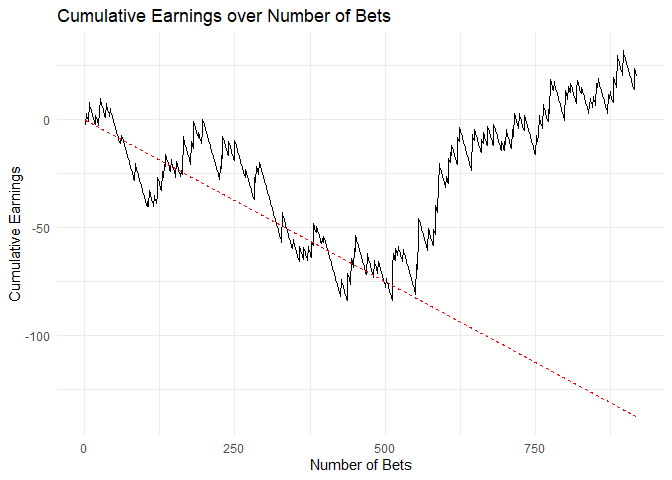
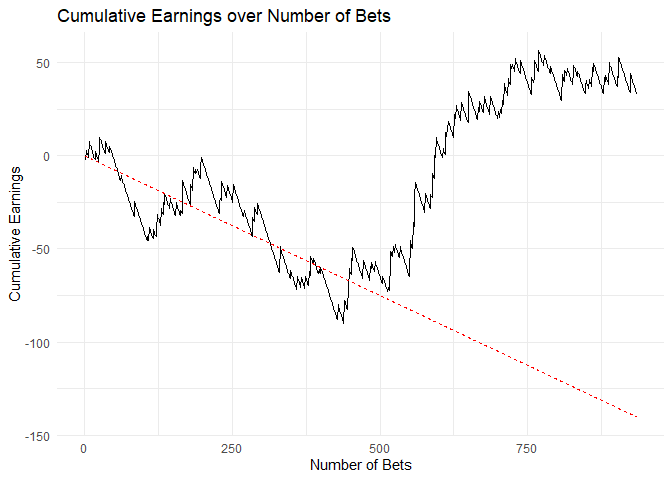
Using variables  in  text and data update.

diff --git a/notebooks/analysis_benter_methods.md b/notebooks/analysis_benter_methods.md
@@ -14,7 +14,7 @@ effectiveness of Benter’s approach in the context of German horse
 racing.
 
 ``` r
-library (data.table)
+library(data.table)
 library(survival)
 library(tidyverse)
 library(zoo)
@@ -24,12 +24,12 @@ library(zoo)
 
 Germany features two primary types of horse racing: Harness racing and
 flat racing. Steeplechasing and hurdling have largely faded into
-history. This notebook will concentrate on flat racing.
+history.[^1] This notebook will concentrate on flat racing.
 
 ## 1.1 Betting Market
 
 Betting plays a crucial role in German horse racing, as a portion of the
-prize money is funded by the parimutuel betting operator’s profits.[^1]
+prize money is funded by the parimutuel betting operator’s profits.[^2]
 Betting in Germany occurs through two primary channels: bookmakers
 (fixed odds) and the totalizator (parimutuel). For this analysis, the
 focus lies exclusively on parimutuel odds.
@@ -44,8 +44,8 @@ will concentrate solely on the win market.
 
 Inspired by Bolton and Chapman’s (1986) seminal paper, Bill Benter
 employed a conditional logistic regression model to predict horse racing
-outcomes in Hong Kong.[^2] His innovative approach incorporated the
-public’s estimate, as reflected in betting odds, into his model.[^3]
+outcomes in Hong Kong.[^3] His innovative approach incorporated the
+public’s estimate, as reflected in betting odds, into his model.[^4]
 Following a similar path, we’ll attempt to identify market
 inefficiencies within German horse racing.
 
@@ -260,51 +260,51 @@ summary(model)
     ##     jowins365 + trsr + odds + strata(dg_raceid), data = train_data, 
     ##     method = "exact")
     ## 
-    ##   n= 5620, number of events= 524 
-    ##    (70 observations deleted due to missingness)
+    ##   n= 5630, number of events= 524 
+    ##    (60 observations deleted due to missingness)
     ## 
     ##                         coef  exp(coef)   se(coef)       z Pr(>|z|)    
-    ## hosr730           -2.590e+00  7.505e-02  1.583e+00  -1.636 0.101920    
-    ## hosr               1.576e+00  4.837e+00  1.659e+00   0.950 0.342039    
-    ## homean4sprat       5.266e-03  1.005e+00  4.757e-03   1.107 0.268363    
-    ## homeanearn365      1.094e-04  1.000e+00  2.112e-04   0.518 0.604296    
-    ## holastsprat        3.874e-03  1.004e+00  3.208e-03   1.208 0.227203    
-    ## hofirstrace        3.487e-01  1.417e+00  5.389e-01   0.647 0.517542    
-    ## hodays            -7.244e-05  9.999e-01  7.954e-04  -0.091 0.927436    
-    ## draweffect_median -1.204e-03  9.988e-01  1.914e-02  -0.063 0.949827    
-    ## gag               -1.217e-02  9.879e-01  3.147e-02  -0.387 0.698976    
-    ## gagindicatorTRUE  -4.994e-02  9.513e-01  1.301e-01  -0.384 0.701136    
-    ## blinkers1sttime   -3.147e-01  7.300e-01  1.802e-01  -1.747 0.080677 .  
-    ## weight            -2.240e-03  9.978e-01  3.401e-02  -0.066 0.947479    
-    ## josr365            6.925e-01  1.999e+00  6.773e-01   1.022 0.306568    
-    ## jowins365          2.361e-03  1.002e+00  1.940e-03   1.217 0.223682    
-    ## trsr               4.397e+00  8.122e+01  1.233e+00   3.565 0.000363 ***
-    ## odds              -8.755e-02  9.162e-01  8.512e-03 -10.285  < 2e-16 ***
+    ## hosr730           -2.6031964  0.0740366  1.5838718  -1.644  0.10027    
+    ## hosr               1.5842952  4.8758534  1.6590735   0.955  0.33961    
+    ## homean4sprat       0.0058641  1.0058813  0.0046976   1.248  0.21191    
+    ## homeanearn365      0.0001162  1.0001162  0.0002112   0.550  0.58218    
+    ## holastsprat        0.0030170  1.0030215  0.0031465   0.959  0.33764    
+    ## hofirstrace        0.3334776  1.3958138  0.5377979   0.620  0.53521    
+    ## hodays            -0.0001106  0.9998894  0.0008036  -0.138  0.89054    
+    ## draweffect_median -0.0012922  0.9987086  0.0191354  -0.068  0.94616    
+    ## gag               -0.0135620  0.9865295  0.0314726  -0.431  0.66653    
+    ## gagindicatorTRUE  -0.0449279  0.9560664  0.1300400  -0.345  0.72972    
+    ## blinkers1sttime   -0.3136789  0.7307536  0.1802375  -1.740  0.08180 .  
+    ## weight            -0.0016044  0.9983969  0.0340307  -0.047  0.96240    
+    ## josr365            0.6950807  2.0038708  0.6769128   1.027  0.30450    
+    ## jowins365          0.0023511  1.0023538  0.0019387   1.213  0.22525    
+    ## trsr               4.4032058 81.7124020  1.2316190   3.575  0.00035 ***
+    ## odds              -0.0877171  0.9160200  0.0085094 -10.308  < 2e-16 ***
     ## ---
     ## Signif. codes:  0 '***' 0.001 '**' 0.01 '*' 0.05 '.' 0.1 ' ' 1
     ## 
     ##                   exp(coef) exp(-coef) lower .95 upper .95
-    ## hosr730             0.07505   13.32363  0.003371    1.6712
-    ## hosr                4.83723    0.20673  0.187243  124.9648
-    ## homean4sprat        1.00528    0.99475  0.995950    1.0147
-    ## homeanearn365       1.00011    0.99989  0.999696    1.0005
-    ## holastsprat         1.00388    0.99613  0.997589    1.0102
-    ## hofirstrace         1.41727    0.70558  0.492897    4.0752
-    ## hodays              0.99993    1.00007  0.998370    1.0015
-    ## draweffect_median   0.99880    1.00121  0.962021    1.0370
-    ## gag                 0.98791    1.01224  0.928820    1.0508
-    ## gagindicatorTRUE    0.95129    1.05121  0.737136    1.2276
-    ## blinkers1sttime     0.72999    1.36989  0.512798    1.0392
-    ## weight              0.99776    1.00224  0.933418    1.0665
-    ## josr365             1.99864    0.50034  0.529965    7.5374
-    ## jowins365           1.00236    0.99764  0.998559    1.0062
-    ## trsr               81.21828    0.01231  7.242346  910.8112
-    ## odds                0.91617    1.09150  0.901015    0.9316
+    ## hosr730             0.07404   13.50684  0.003321    1.6506
+    ## hosr                4.87585    0.20509  0.188732  125.9669
+    ## homean4sprat        1.00588    0.99415  0.996663    1.0152
+    ## homeanearn365       1.00012    0.99988  0.999702    1.0005
+    ## holastsprat         1.00302    0.99699  0.996855    1.0092
+    ## hofirstrace         1.39581    0.71643  0.486467    4.0050
+    ## hodays              0.99989    1.00011  0.998316    1.0015
+    ## draweffect_median   0.99871    1.00129  0.961946    1.0369
+    ## gag                 0.98653    1.01365  0.927514    1.0493
+    ## gagindicatorTRUE    0.95607    1.04595  0.740965    1.2336
+    ## blinkers1sttime     0.73075    1.36845  0.513278    1.0404
+    ## weight              0.99840    1.00161  0.933977    1.0673
+    ## josr365             2.00387    0.49903  0.531717    7.5519
+    ## jowins365           1.00235    0.99765  0.998552    1.0062
+    ## trsr               81.71240    0.01224  7.310246  913.3642
+    ## odds                0.91602    1.09168  0.900869    0.9314
     ## 
     ## Concordance= 0.738  (se = 0.013 )
-    ## Likelihood ratio test= 343.2  on 16 df,   p=<2e-16
+    ## Likelihood ratio test= 343.8  on 16 df,   p=<2e-16
     ## Wald test            = 194.2  on 16 df,   p=<2e-16
-    ## Score (logrank) test = 219.6  on 16 df,   p=<2e-16
+    ## Score (logrank) test = 219.5  on 16 df,   p=<2e-16
 
 The estimated coefficients are extracted from the model summary for use
 in subsequent predictions on the test data.
@@ -372,17 +372,26 @@ bets <- predictions %>%
       win == 1, odds - 1, -1
     ),
     cumulative_earnings = cumsum(earnings)
-  )
+  ) 
 
-sum(bets$earnings)
+total_bets <- nrow(bets)
+total_earnings <- sum(bets$earnings)
+
+# Print the results
+cat(
+  "Total number of bets:", total_bets, "\n",
+  "Total earnings:", total_earnings
+)
 ```
 
-    ## [1] 19.9
+    ## Total number of bets: 935 
+    ##  Total earnings: 33
 
-Our strategy identified 919 potentially profitable bets and generated
-cumulative earnings of €19.90
+Over the test period, our strategy identified 935 potentially profitable
+bets. Assuming a uniform bet size of €1.00, the strategy would have
+generated cumulative earnings of €33.
 
-## 4.3 Outperforming the Market vs. a few lucky Wins
+## 4.3 Outperforming the Market or just a few lucky Wins?
 
 The cumulative earnings over the number of bets are plotted to assess
 the overall profitability and the pattern of wins and losses over the
@@ -446,15 +455,15 @@ cat(
 )
 ```
 
-    ## Observed Earnings: 19.9 
-    ##  Expected Loss (with 15% takeout): 137.85 
-    ##  p-value: 0.0363
+    ## Observed Earnings: 33 
+    ##  Expected Loss (with 15% takeout): 140.25 
+    ##  p-value: 0.0274
 
-The bootstrap hypothesis test yields a p-value of 0.0363. This p-value
+The bootstrap hypothesis test yields a p-value of 0.0274. This p-value
 is less than the commonly used significance level of 0.05.
 
-The low p-value (0.0363) indicates that the observed earnings of €19.90
-are statistically significantly higher than what one would expect if the
+The low p-value (0.0274) indicates that the observed earnings of €33 are
+statistically significantly higher than what one would expect if the
 betting strategy’s performance were purely due to chance, considering
 the 15% takeout.
 
@@ -500,13 +509,17 @@ to the way how parimutuel betting markets work. If you place a
 significant bet on a horse in the win market the odds of that horse are
 going to drop, potentially making your advantage disappear.
 
-[^1]: For more information on parimutuel betting, see the [Wikipedia
+[^1]: For a more detailed overview of the different types of horse
+    racing, see the [Wikipedia
+    article](https://en.wikipedia.org/wiki/Horse_racing#Types_of_horse_racing).
+
+[^2]: For more information on parimutuel betting, see the [Wikipedia
     article](https://en.wikipedia.org/wiki/Parimutuel_betting).
 
-[^2]: See Bolton, R.N., & Chapman, R.G.(1986). Searching for positive
+[^3]: See Bolton, R.N., & Chapman, R.G.(1986). Searching for positive
     returns at the track: A multinomial logistic regression model for
     handicapping horse races. Management Science, 32(8), pp. 1040-1060.
 
-[^3]: See Benter, W. (1994). Computer-based horse race handicapping and
+[^4]: See Benter, W. (1994). Computer-based horse race handicapping and
     wagering systems: A report. In: Efficiency of Racetrack Betting
     Markets, pp. 183-198
